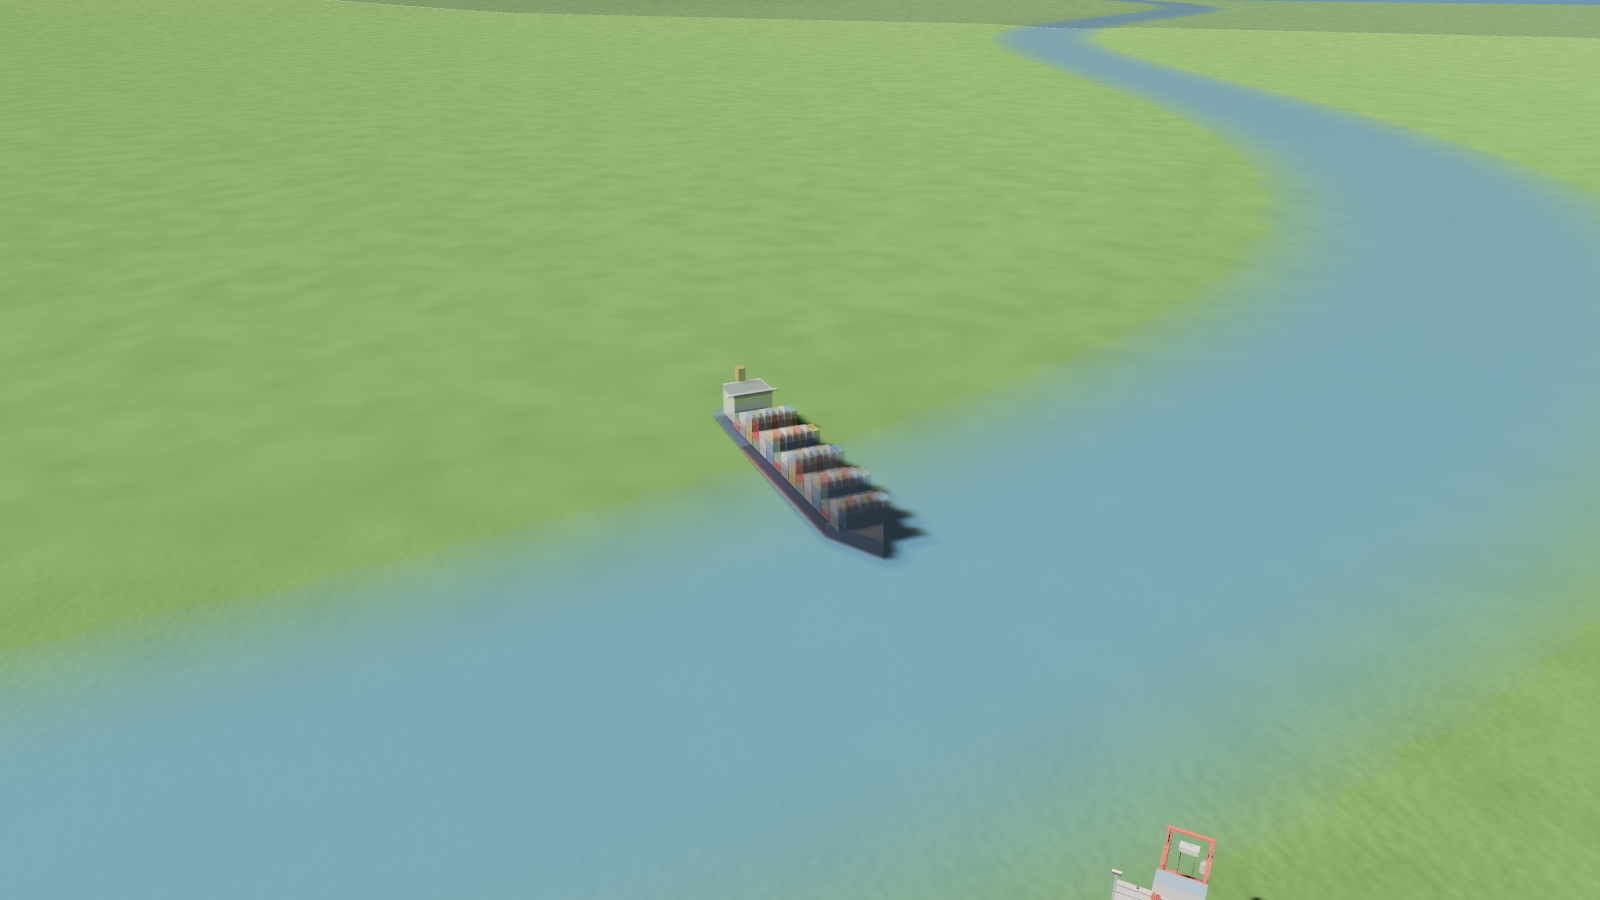
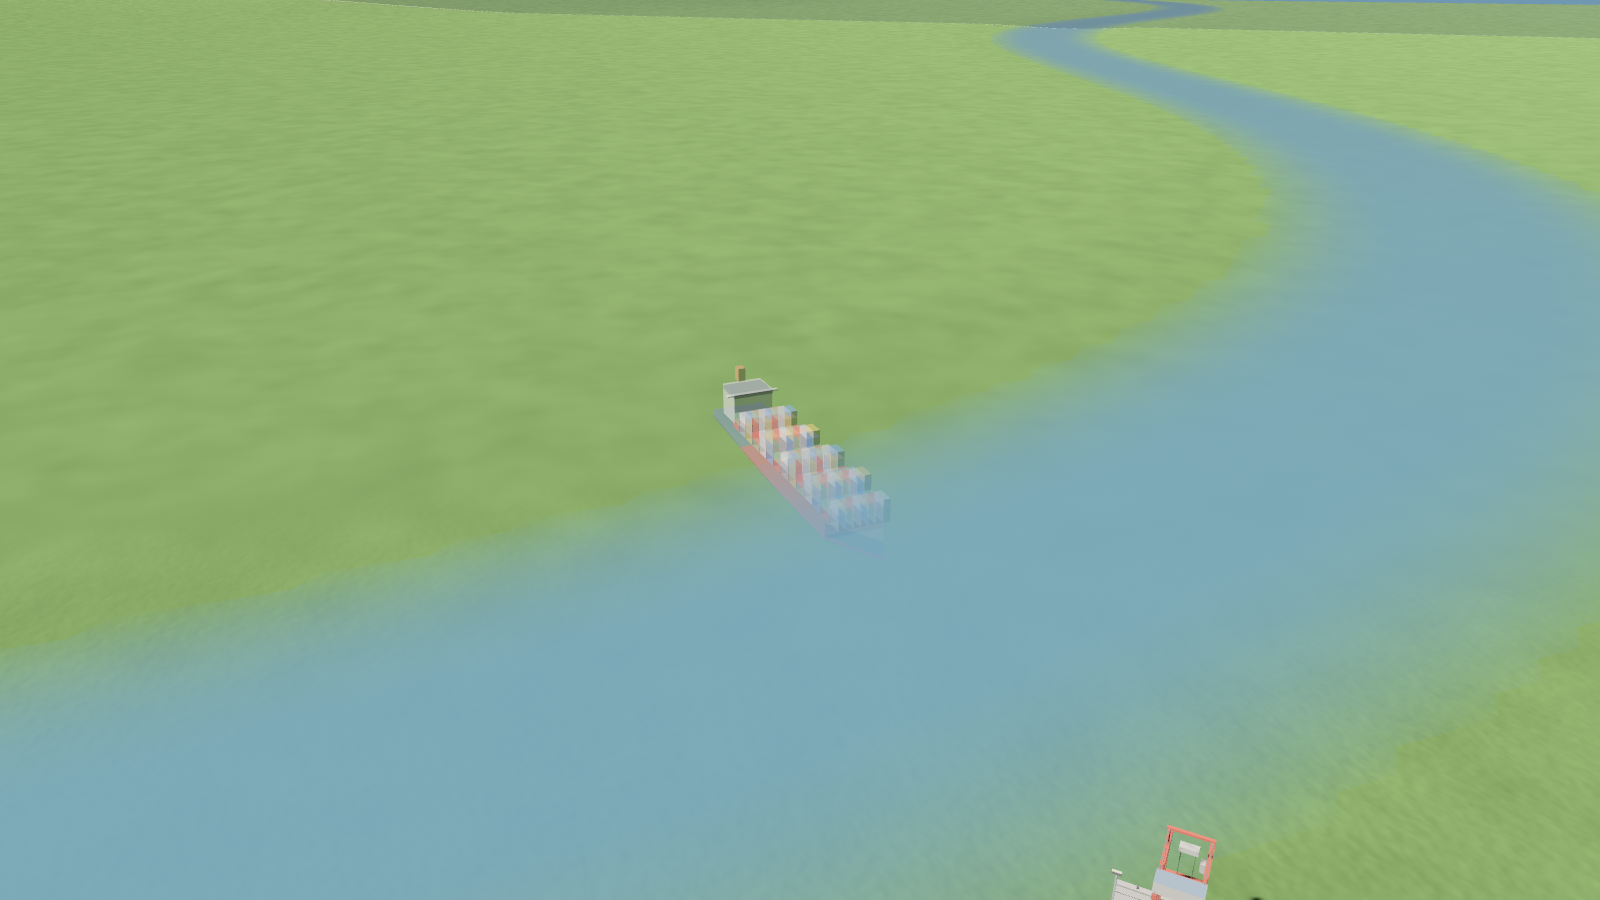
T-218: a fading cargo ship casts no shadow — NotShadowCaster while its alpha is below 1 (inserted and removed only on change); screenshot t218-cargo-ship-in.png reshot

Changed region(s): [[0.4375, 0.4356, 0.5938, 0.6222]]

diff --git a/crates/cp_render/src/cargo_render.rs b/crates/cp_render/src/cargo_render.rs
@@ -5,7 +5,8 @@
 //! with stacked containers and a bridge at the stern; it berths alongside the bank, along the
 //! water at the port, scaled down to fit narrow water (`berth_fit`), and under sail follows the
 //! sim's line between its pose now and a tick later (held on the water), turning to its way; it
-//! fades in as it sails in and out as it sails away (render time only).
+//! fades in as it sails in and out as it sails away, casting no shadow while it fades (render
+//! time only).
 
 use bevy::prelude::*;
 use cp_sim::SimView;
@@ -443,8 +444,9 @@ struct CargoShip;
 struct CargoRender {
     /// The cars of each train shown, in `SimView::cargo_trains` order.
     trains: Vec<Vec<Entity>>,
-    /// The ships shown, in `SimView::ships` order, each with its own material (it fades).
-    ships: Vec<(Entity, Handle<VertexColorMaterial>)>,
+    /// The ships shown, in `SimView::ships` order, each with its own material (it fades) and
+    /// whether it casts its shadow (not while it fades).
+    ships: Vec<(Entity, Handle<VertexColorMaterial>, bool)>,
     /// The berth of each port's ship, measured once.
     berths: std::collections::BTreeMap<cp_building::BuildingId, Option<Berth>>,
     /// The train length the car meshes were made for, and the ship size.
@@ -557,14 +559,14 @@ fn sync_cargo(
         })
         .unwrap_or(DEFAULT_SHIP);
     if st.ship_size != size {
-        for (e, _) in st.ships.drain(..) {
+        for (e, _, _) in st.ships.drain(..) {
             commands.entity(e).despawn();
         }
         st.ship_size = size;
         st.ship = Some(meshes.add(to_bevy_mesh(ship_mesh(size.0, size.1))));
     }
     while st.ships.len() > view.ships.len() {
-        if let Some((e, _)) = st.ships.pop() {
+        if let Some((e, _, _)) = st.ships.pop() {
             commands.entity(e).despawn();
         }
     }
@@ -620,15 +622,25 @@ fn sync_cargo(
         } else {
             Visibility::Hidden
         };
-        if let Some((e, mat)) = st.ships.get(n)
+        // A fading ship casts no shadow: a solid shadow under a ghost reads wrong.
+        let shadow = alpha >= 0.999;
+        if let Some((e, mat, casts)) = st.ships.get_mut(n)
             && let Ok((mut tr, mut v)) = ships.get_mut(*e)
         {
+            if *casts != shadow {
+                if shadow {
+                    commands.entity(*e).remove::<bevy::light::NotShadowCaster>();
+                } else {
+                    commands.entity(*e).insert(bevy::light::NotShadowCaster);
+                }
+                *casts = shadow;
+            }
             *tr = tf;
             *v = visible;
             // Touch the material only while the ship fades (a change re-uploads it).
             let want = if alpha < 0.999 { alpha } else { 1.0 };
-            if materials.get(mat).is_some_and(|mm| mm.fade.x != want)
-                && let Some(mut mm) = materials.get_mut(mat)
+            if materials.get(&*mat).is_some_and(|mm| mm.fade.x != want)
+                && let Some(mut mm) = materials.get_mut(&*mat)
             {
                 mm.set_see_through(alpha < 0.999, alpha);
             }
@@ -636,18 +648,20 @@ fn sync_cargo(
             let mut mm = VertexColorMaterial::opaque(0.6, 0.1);
             mm.set_see_through(alpha < 0.999, alpha);
             let mat = materials.add(mm);
-            let e = commands
-                .spawn((
-                    Mesh3d(st.ship.clone().expect("ship mesh made")),
-                    MeshMaterial3d(mat.clone()),
-                    tf,
-                    visible,
-                    CargoShip,
-                    bevy::camera::visibility::NoFrustumCulling,
-                    Name::new("cargo ship"),
-                ))
-                .id();
-            st.ships.push((e, mat));
+            let mut ec = commands.spawn((
+                Mesh3d(st.ship.clone().expect("ship mesh made")),
+                MeshMaterial3d(mat.clone()),
+                tf,
+                visible,
+                CargoShip,
+                bevy::camera::visibility::NoFrustumCulling,
+                Name::new("cargo ship"),
+            ));
+            if !shadow {
+                ec.insert(bevy::light::NotShadowCaster);
+            }
+            let e = ec.id();
+            st.ships.push((e, mat, shadow));
         }
     }
 }
